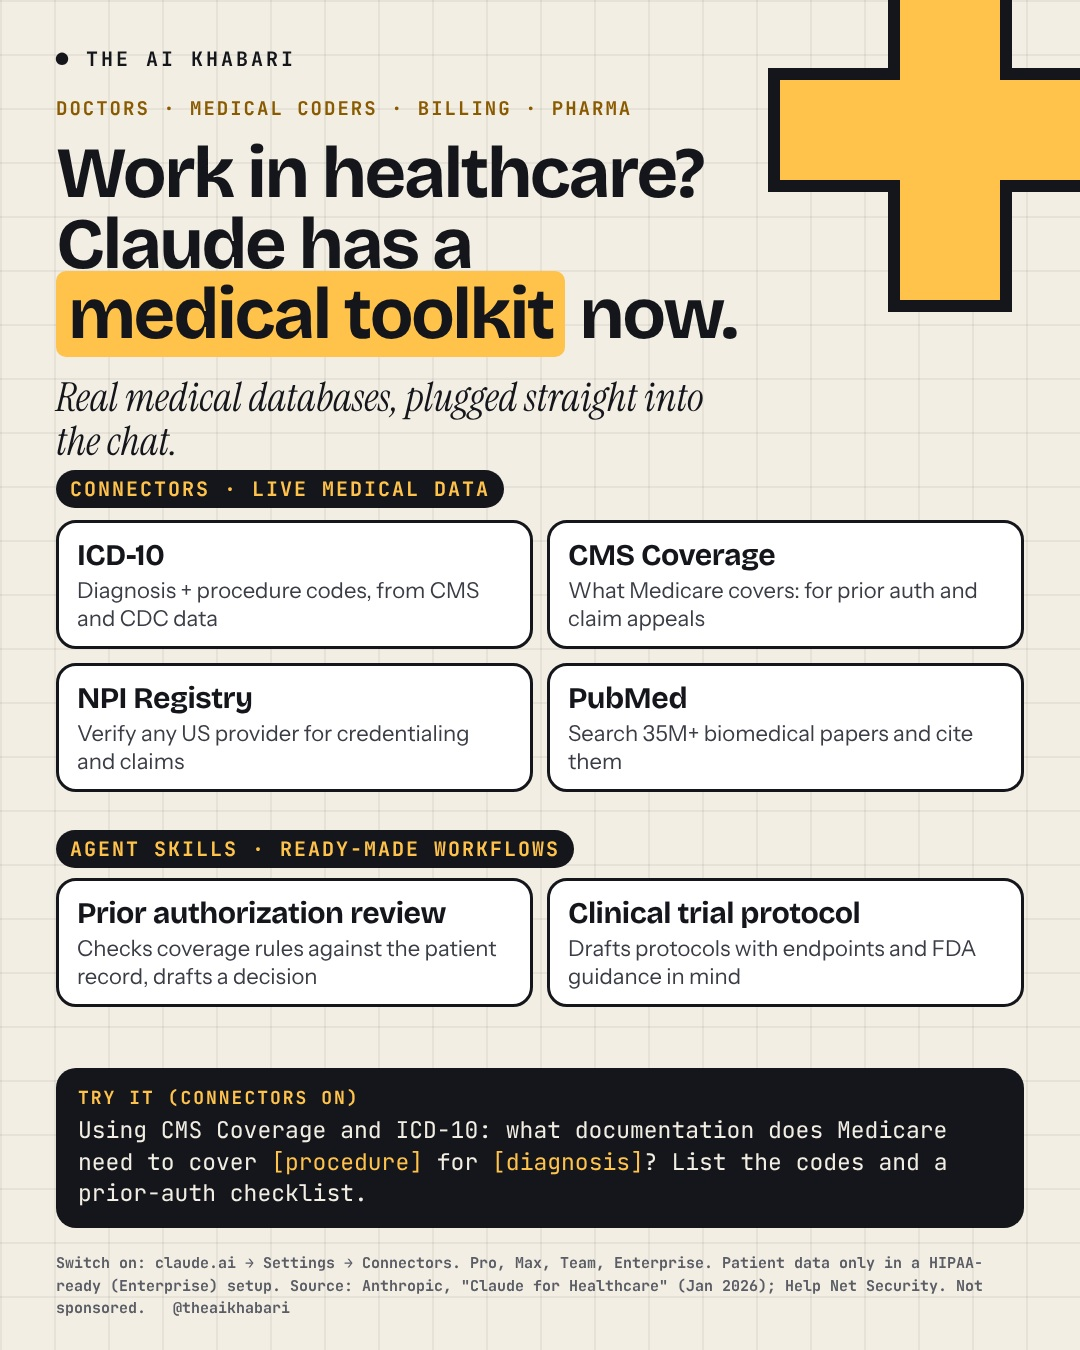
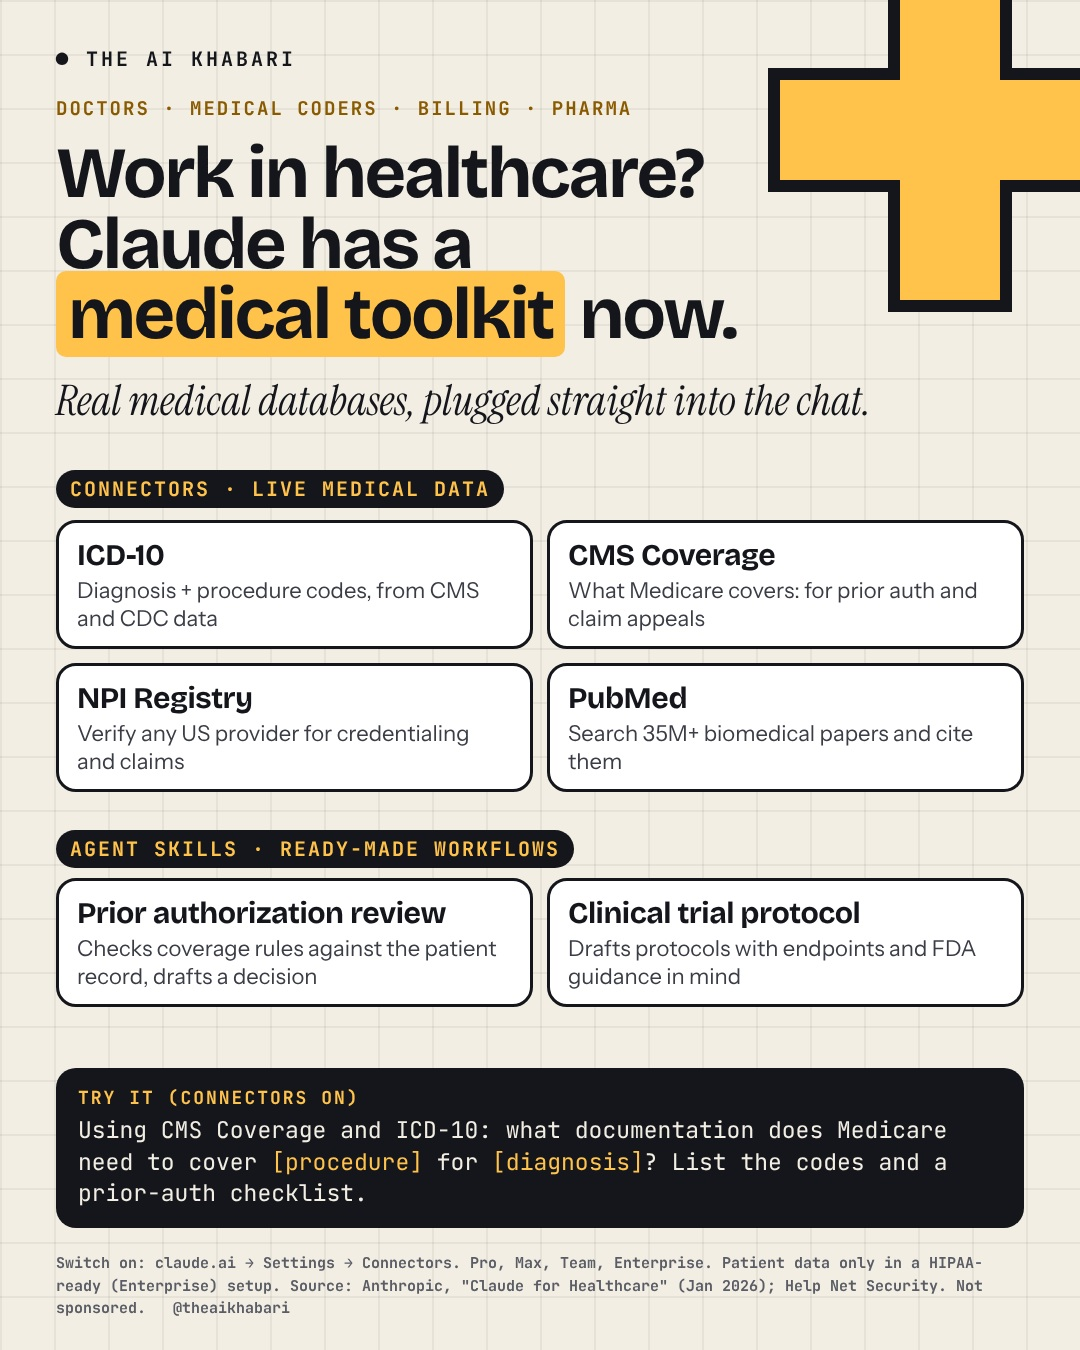
poster fix
Claude-Session: https://claude.ai/code/session_01LQ7Myr8fmpLaNjf994KEDc

Changed region(s): [[0.0306, 0.28, 0.7944, 0.3422]]

diff --git a/tools/examples/health_poster_build.py b/tools/examples/health_poster_build.py
@@ -25,7 +25,7 @@ body=f"""<div class=grid></div>
 <div class="a m" style="left:56px;top:46px;font-size:20px;letter-spacing:3px">&#9679; THE AI KHABARI</div>
 <div class="a m" style="left:56px;top:96px;font-size:19px;letter-spacing:2px;color:#8A5A00">DOCTORS &middot; MEDICAL CODERS &middot; BILLING &middot; PHARMA</div>
 <div class="a d" style="left:56px;right:330px;top:138px;font-size:72px">Work in healthcare? Claude has a <span class=hl>medical toolkit</span> now.</div>
-<div class="a" style="left:56px;right:330px;top:375px;font-family:Ser;font-size:40px;line-height:1.1">Real medical databases, plugged straight into the chat.</div>
+<div class="a" style="left:56px;right:40px;top:378px;font-family:Ser;font-size:42px;line-height:1.1">Real medical databases, plugged straight into the chat.</div>
 <div class="a" style="left:56px;top:470px"><span class=lab>CONNECTORS &middot; LIVE MEDICAL DATA</span></div>
 <div class=a style="left:56px;right:56px;top:520px;display:grid;grid-template-columns:1fr 1fr;gap:14px">
 {C('ICD-10','Diagnosis + procedure codes, from CMS and CDC data')}
